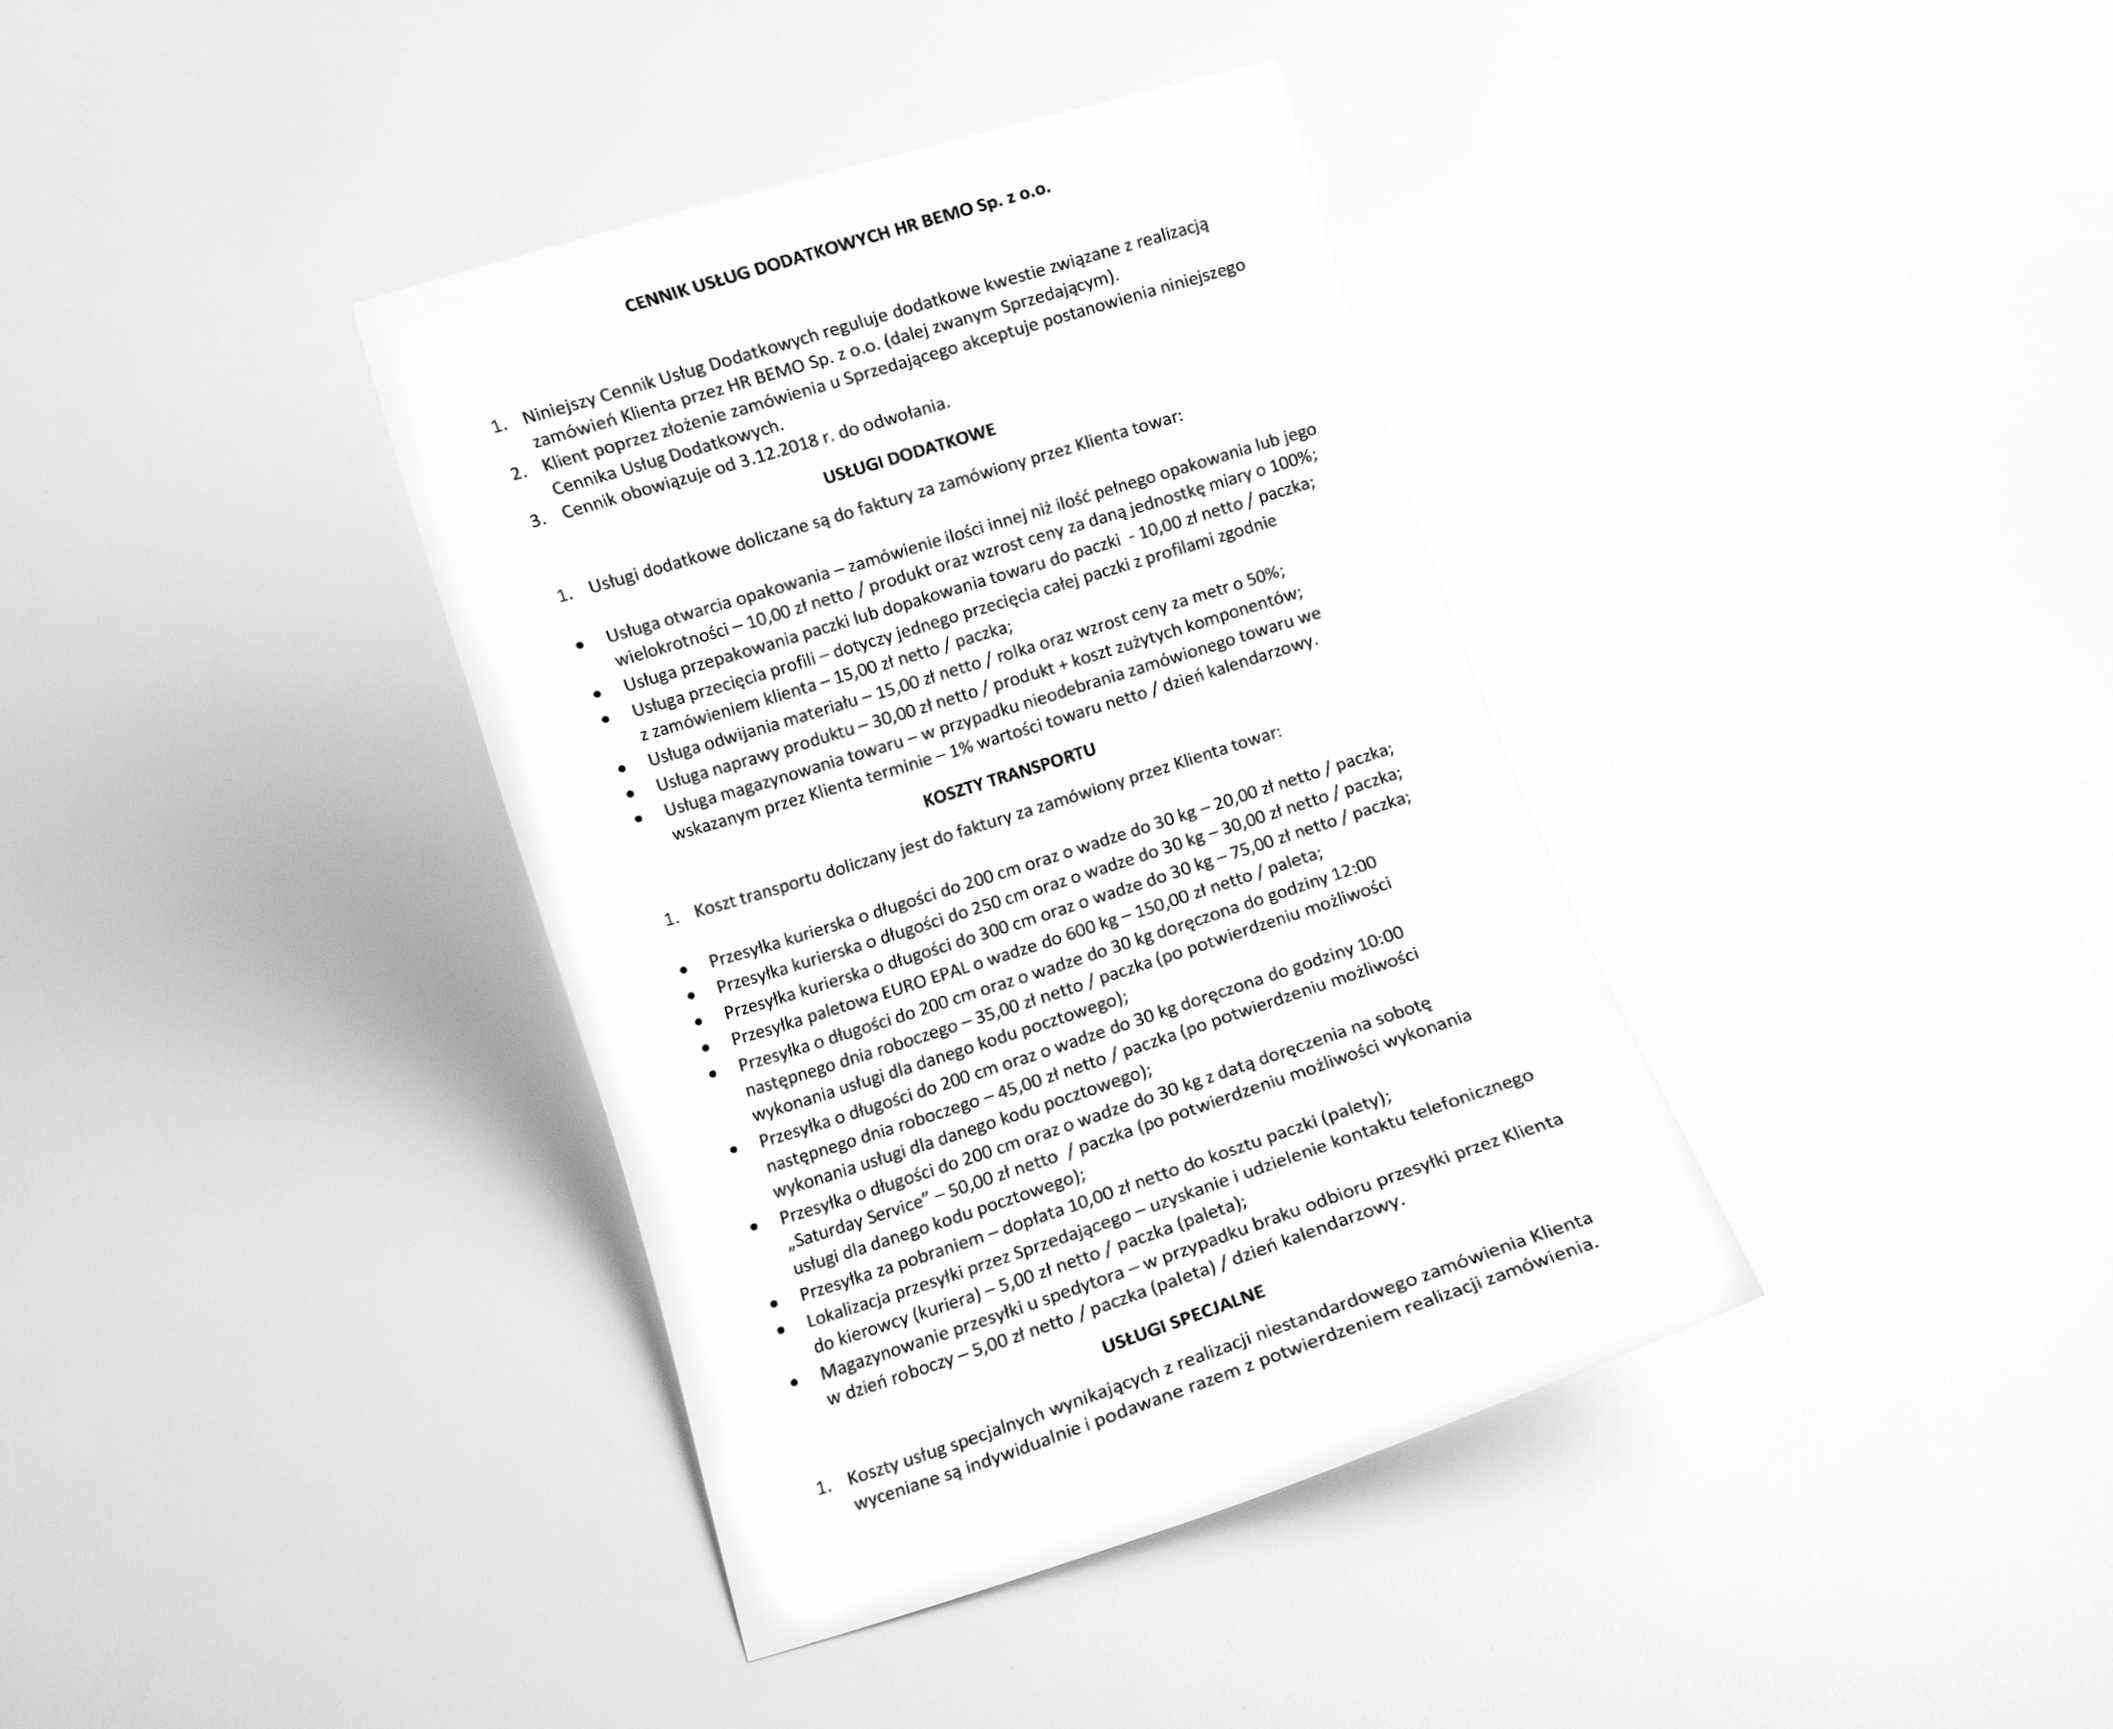
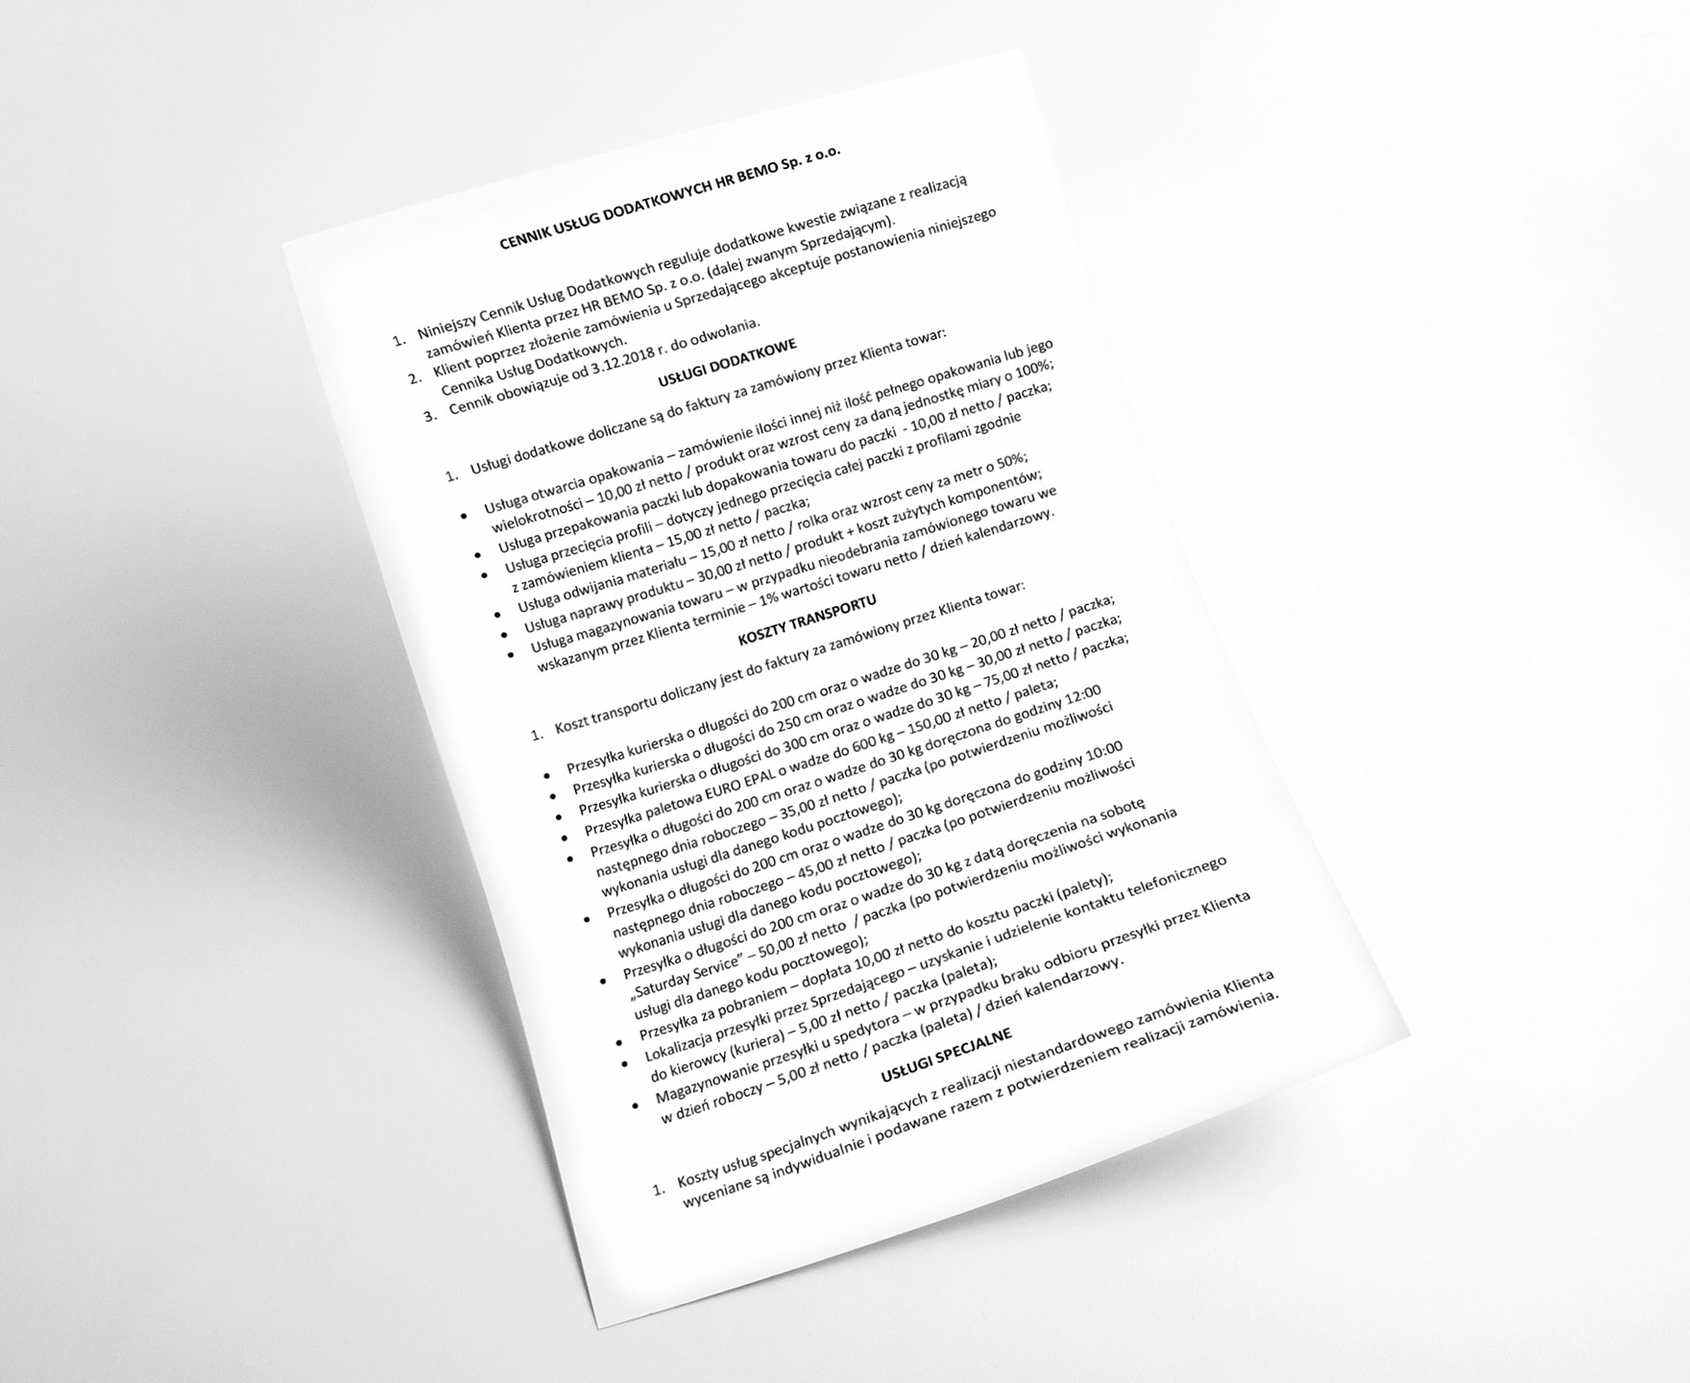
Compressed all images
Seems much lighter.

diff --git a/katalogi.html b/katalogi.html
@@ -116,7 +116,7 @@
             </div>
         </div>
         <div class="col-md-6 link">
-            <img class="img-responsive download-image" src="img/rzymskie3.jpg">
+            <img class="img-responsive download-image" src="img/rzymskie5.jpg">
             <div class="download-text">
                 <div class="text"><h2>Rolety rzymskie</h2><br><br>
                     <a target="_blank" rel="noopener noreferrer" href="https://drive.google.com/open?id=1Nlh9MIB8Q6HWTkCqDZmj9QjnaoQp0yfR">
@@ -162,7 +162,7 @@
             </div>
         </div>
         <div class="col-md-6 link">
-            <img class="img-responsive download-image" src="img/ofirmie1.jpg">
+            <img class="img-responsive download-image" src="img/dzieninoc.jpg">
             <div class="download-text">
                 <div class="text"><h2>Dzień i noc</h2><br><br>
                     <a target="_blank" rel="noopener noreferrer" href="https://drive.google.com/open?id=15DSfPFoInUM-1csxUgOXBd-EgAQf98JS">

diff --git a/index.html b/index.html
@@ -425,6 +425,7 @@
             <br>- zmieniono opis w "dzień i noc" i "plisa"
             <br>- usunięto Rosellę ze stopki
             <br>- dodano "Rolety rzymskie"
+            <br>- skompresowano zdjęcia
         </div>
     </div>
 </div>
